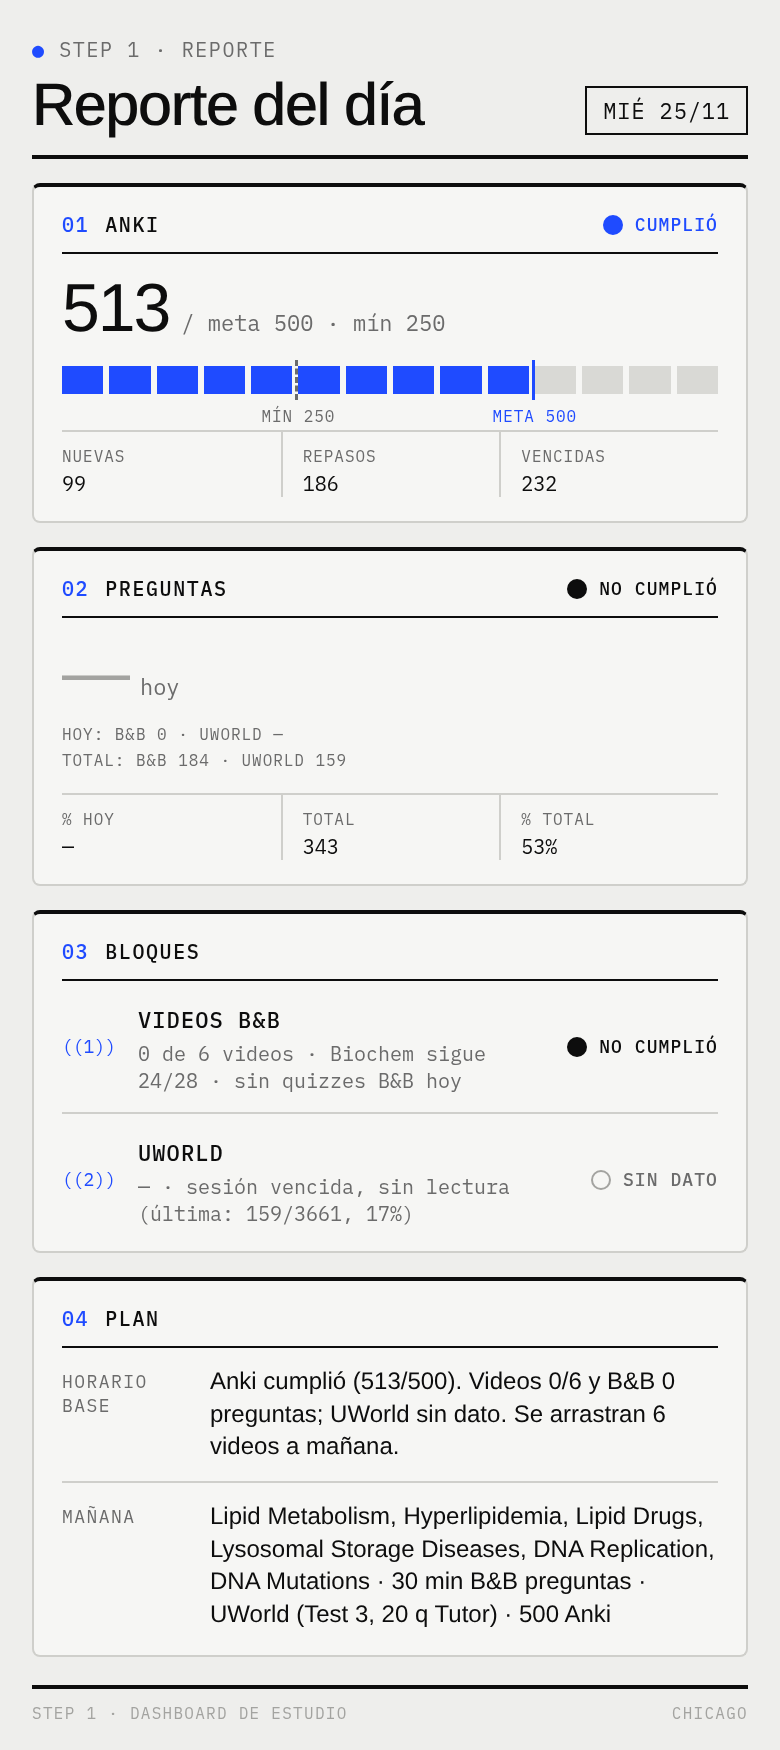
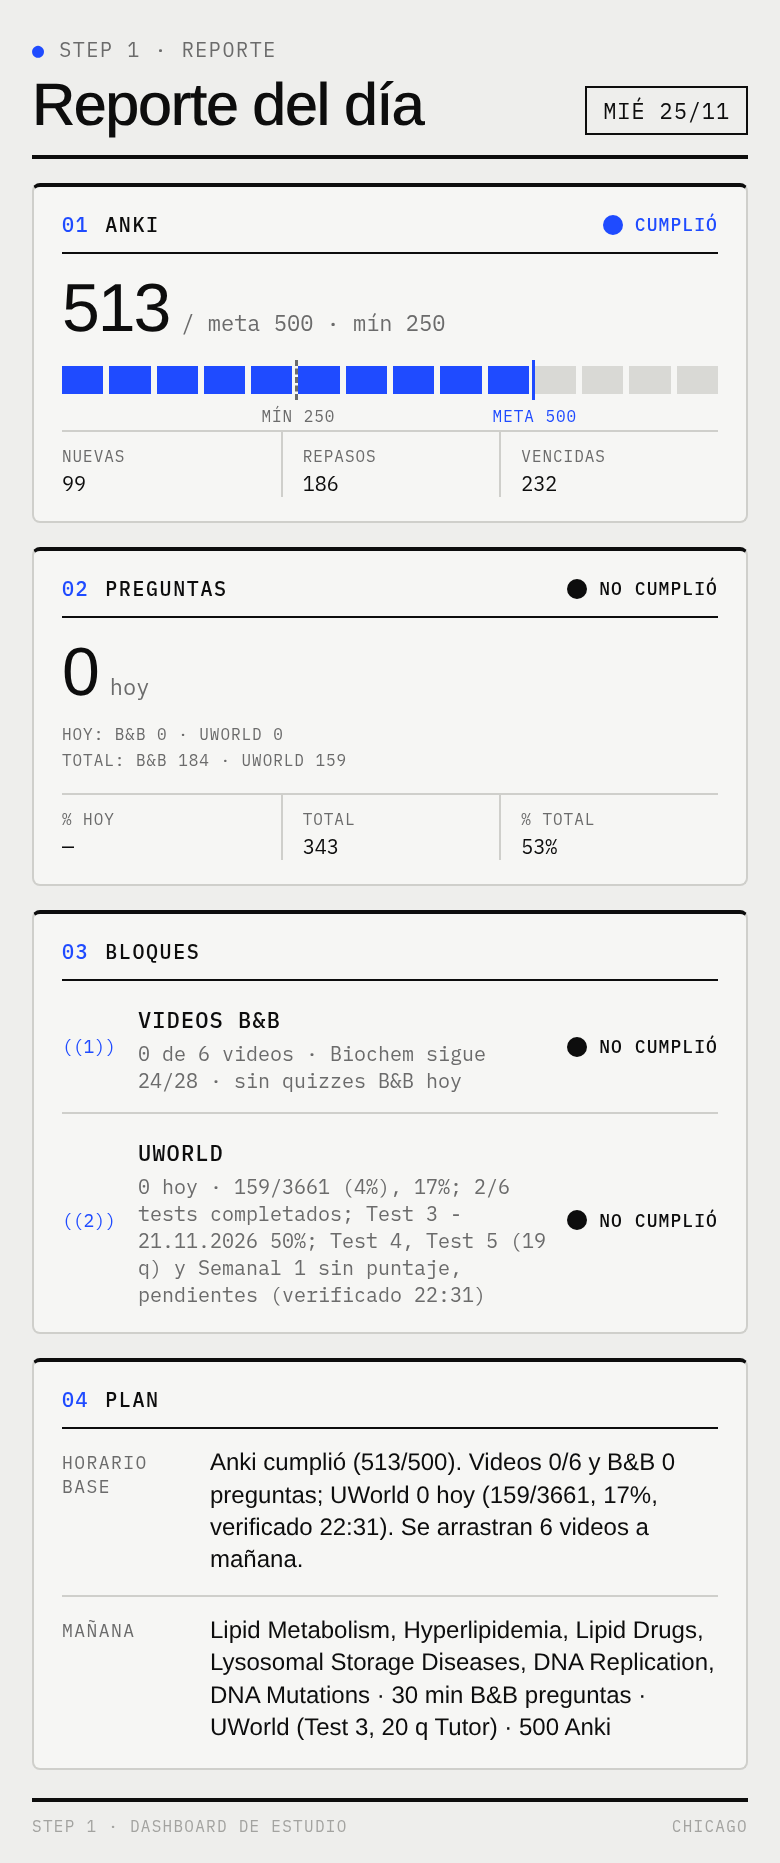
Reporte 2026-11-25: UWorld verificado 0 hoy, 159/3661

diff --git a/index.html b/index.html
@@ -7,7 +7,7 @@
   Regla: en pantalla NO se muestran notas de fuente/procedencia; solo el timestamp de #upd.
   Fuentes (solo para mantenimiento): Anki = Mac "Eduardos MacBook Air" APAGADO/offline a las 25/11 18:00; AnkiConnect no disponible. AnkiWeb (ankiweb.net/decks, sesión ok, solo lectura) 25/11 18:00: vencidas observadas (número verde) AnKing 223 + Eduche Step 1 Deck - BB 155 = 378; nuevas disponibles (número azul, tope diario) AnKing 50, Eduche 9; High Yield 0 vencidas / 0 nuevas, Incorrectas 25 vencidas / 9 nuevas (van dentro de Eduche 155). Submazos Eduche visibles: BB Biochemistry 110/50, BB Farmacología 5/8, BB Genetica 15/50. A las 07:00 del mismo día AnkiWeb mostraba 421 vencidas (AnKing 223, Eduche 198; High Yield 28/25, Incorrectas 40/25). Reviews/AGAIN/tiempo de HOY no se muestran en AnkiWeb (no hay página de stats). ANKI_HOY reviews/again = null (no inventar 0 ni estimar por la baja de vencidas). H["2026-11-24"]=758 (AnkiConnect 24/11 23:28: reviews=758, unique=467, new=0, review_cards=467, introduced=153, rated:1:1=56, again presses=65, 155.87 min, 12.34s/card, is:due=166 AnKing 166 Eduche 0). H["2026-11-25"] omitido (reviews de hoy no observadas).
   B&B = intento 25/11 18:00: login requerido en https://www.boardsbeyond.com/login (sesión vencida; no se escribió ni se usó el vault en esta corrida). Una relectura con login a las ~07:06 del 25/11 confirmó 63 quizzes, ninguno con fecha 25/11, Biochem 24/28 (151/140 a 87%), videos de Lipid Metabolism, Hyperlipidemia, Lipid Drugs, Lysosomal Storage Diseases y DNA Replication/Mutations pendientes, Cell Bio 0/14. Se conservan cifras de la última lectura verificada completa 24/11 23:46: 184/3701, quiz 84.2%, 63 quizzes, Step 1 8%. Biochem 24/28, 151/140 a 87%. Pendientes (última vez vistos ~07:06): Lipid Metabolism, Hyperlipidemia, Lipid Drugs, Lysosomal Storage Diseases. TODAY_Q.bb = null (no se pudo leer Quiz History a las 18:00; no se usa 0 a partir de la lectura de las 07:06). Últimos quizzes observados el 24/11: 17:53 B12 and Folate 5/5; 19:15 Other Vitamins 4/5 (10 q, 90%).
-  UWorld = intento 25/11 18:00: sesión vencida en https://www.uworld.com/account/app/v37/subscriptions ("Your Session has expired. Please login again to continue."); no se escribió ni se usó el vault. Una relectura con login a las ~07:06 del 25/11 confirmó QBank 159/3661, Question Score 17%, Test Count 2/6; ningún test iniciado ni contestado aún el 25/11; Test 3, 4, 5 y Semanal 1 sin iniciar; UWSA 1–3 sin activar. Se conservan cifras de la última lectura 24/11 18:00 (Launch STEP 1 QBank): QBank 159/3661, Question Score 17%, Test Count 2/6. Ronda actual: único completado #2 19/11 10/20 (50%). Sin iniciar: Test 3 (20 q), Test 4 (20 q), Test 5 - 23.11.2026 (19 q) y Test Semanal 1 (40 q). TODAY_Q.uw = null (no se pudo leer Previous Tests a las 18:00; no se usa 0 a partir de la lectura de las 07:06). UWSA 1–3 sin activar.
+  UWorld = lectura verificada 25/11 22:31: QBank 159/3661 (4%), Question Score 17%, 2/6 tests completados. 0 preguntas hoy; ningún test creado, iniciado ni terminado el 25/11. Test 3 - 21.11.2026: 50%. Test 4 - 22.11.2026, Test 5 - 23.11.2026 (19 q) y Test Semanal 1 - 28.11.2026: sin puntaje, pendientes. Test #2 19/11 10/20 (50%) se mantiene de lecturas anteriores. TODAY_Q.uw = 0. UWSA 1–3 sin activar.
   Plan/horario: reprogramado 25/11 22:35 (nada se completó el 25/11; todo corre un día; Infectious Disease termina el 15/12 y Cardiology empieza el 16/12). Antes: reprogramado 24/11 23:46 (títulos de horario_base.xlsx, checklist 2025). Mié 25/11: 4 Biochem restantes + DNA Replication y DNA Mutations (6 videos, 116 min 1.0x). Luego Cell Bio, Path General, Immuno, ID a 6 videos/día L–V; sábados Test Semanal 40; domingos Anki + repaso ligero. Infectious Disease termina el 14/12; Cardiology puede empezar el 15/12. Fuente del horario para la rutina 6:40: /workspace/step1/horario_actual.json (copia /workspace/step1/horario_2026-11-25.xlsx).
 
   · Timestamp ....................... <span id="upd">Actualizado DD/MM HH:MM</span>
@@ -339,7 +339,7 @@ details summary .lbl{margin-left:auto}
   <div><div class="brand"><span><i>●</i> step&nbsp;1</span><span>usmle</span><span>rev. 2026</span></div><h1>Inicio</h1></div>
   <div class="top-meta">
     <button type="button" id="refresh" aria-label="Refresh">↻ REFRESH</button>
-    <span id="upd">Actualizado 25/11 22:35</span>
+    <span id="upd">Actualizado 25/11 22:31</span>
   </div>
 </header>
 
@@ -418,12 +418,12 @@ details summary .lbl{margin-left:auto}
   <div class="big"><div class="k">((1))</div><div class="v">159<small>/3661</small></div><div class="l">QBank usadas</div><div class="d">3502 sin usar</div></div>
   <div class="tb" data-v="159" data-max="3661" style="margin-top:10px"><div class="bar"><i></i></div></div>
   <div class="kvs">
-    <div class="kv"><span>Ronda actual</span><b>1 completado · #2 19/11 · 10/20 (50%)</b></div>
-    <div class="kv"><span>Sin iniciar</span><b>Test 3 (20) · Test 4 (20) · Test 5 - 23.11.2026 (19) · Semanal 1 (40)</b></div>
+    <div class="kv"><span>Ronda actual</span><b>2/6 completados · Test 3 - 21.11.2026 50% · #2 19/11 10/20 (50%)</b></div>
+    <div class="kv"><span>Pendientes</span><b>Test 4 - 22.11.2026 · Test 5 - 23.11.2026 (19) · Semanal 1 - 28.11.2026</b></div>
     <div class="kv"><span>Test 31/10/2026</span><b>abandonado · no cuenta</b></div>
     <div class="kv"><span>UWSA 1–3</span><b>sin activar</b></div>
   </div>
-  <p class="note">Test #2 (19/11, Tutor untimed, Biochemistry, 20 preguntas) es el único completado de la ronda: 50% (10/20). Lectura 24/11 18:00: QBank 159/3661, Question Score 17%. Test 3 - 21.11.2026 (20 q), Test 4 - 22.11.2026 (20 q), Test 5 - 23.11.2026 (19 q) y Test Semanal 1 - 28.11.2026 (40 q) sin puntaje (sin iniciar). El test del 31/10 (40 preguntas, 0%) no cuenta. Las 159/3661 usadas y el 17% de Question Score incluyen el test abandonado y las preguntas reservadas en tests no iniciados (el salto 140→159 es el Test 5, sin contestar). El desempeño de la ronda, solo con #2, sigue en 50%. Los UWSA tienen 14 días de validez al activarlos.</p>
+  <p class="note">Lectura 25/11 22:31: QBank 159/3661 (4%), Question Score 17%, 2/6 tests completados. 0 preguntas hoy; ningún test creado, iniciado ni terminado el 25/11. Test 3 - 21.11.2026: 50%. Test 4 - 22.11.2026, Test 5 - 23.11.2026 (19 q) y Test Semanal 1 - 28.11.2026: sin puntaje, pendientes. Test #2 19/11 10/20 (50%) se mantiene de lecturas anteriores. El test del 31/10 no cuenta. UWSA 1–3 sin activar.</p>
 </section>
 
 <!-- CUENTA REGRESIVA: const D -->
@@ -475,7 +475,7 @@ details summary .lbl{margin-left:auto}
 <section id="s-con" hidden>
 <table><tbody>
 <tr><td><b>Anki (MacBook Air)</b><br><small>Mac apagada 25/11 18:00; AnkiConnect no disponible. AnkiWeb 25/11 18:00 (sesión ok, solo lectura): 378 vencidas (AnKing 223, Eduche 155); nuevas disponibles AnKing 50, Eduche 9. High Yield 0/0, Incorrectas 25/9. Reviews/AGAIN de hoy no visibles en AnkiWeb. Última sesión AnkiConnect 24/11 23:28: 758 revisiones.</small></td><td><span class="pill wa">Mac apagada · AnkiWeb</span></td></tr>
-<tr><td><b>UWorld</b><br><small>Sesión vencida 25/11 18:00 en /account/app/v37/subscriptions. Relectura ~07:06: 159/3661, 17%, sin tests el 25/11 todavía. Última lectura completa 24/11 18:00: 159/3661, 17%; Test 3, Test 4, Test 5 (19 q) y Semanal 1 sin iniciar. #2 10/20 (50%). UWSA sin activar. TODAY_Q.uw = null.</small></td><td><span class="pill wa">Sesión vencida</span></td></tr>
+<tr><td><b>UWorld</b><br><small>Lectura 25/11 22:31: 159/3661 (4%), 17%, 2/6 tests completados. 0 preguntas hoy; ningún test creado, iniciado ni terminado el 25/11. Test 3 - 21.11.2026: 50%. Test 4, Test 5 (19 q) y Semanal 1 sin puntaje, pendientes. #2 19/11 10/20 (50%). UWSA sin activar. TODAY_Q.uw = 0.</small></td><td><span class="pill ok">Conectado</span></td></tr>
 <tr><td><b>Boards &amp; Beyond</b><br><small>Login requerido 25/11 18:00 en /login (sesión vencida). Relectura ~07:06: 63 quizzes, ninguno el 25/11, Biochem 24/28. Última lectura completa 24/11 23:46: 184/3701 a 84.2%, 63 quizzes, Step 1 8%. Biochem 24/28, 151/140 a 87%. Pendientes: Lipid Metabolism, Hyperlipidemia, Lipid Drugs, Lysosomal Storage Diseases. TODAY_Q.bb = null.</small></td><td><span class="pill wa">Sesión vencida</span></td></tr>
 <tr><td><b>Google Sheets (tracker)</b><br><small>Aún no conectado.</small></td><td><span class="pill wa">Sin conexión</span></td></tr>
 </tbody></table>
@@ -637,7 +637,7 @@ const ANKI_HOY={reviews:513, again:52, again_cards:39, again_pct:10};
 const TODAY_Q={
   fecha:"2026-11-25",
   bb:{hechas:0, correctas:0, incorrectas:0, pct:null, quizzes:[]},
-  uw:{hechas:null, correctas:null, incorrectas:null, pct:null}
+  uw:{hechas:0, correctas:null, incorrectas:null, pct:null}
 };
 (function(){
   const el=document.getElementById("today-q"); if(!el) return;
@@ -663,9 +663,9 @@ const TODAY_Q={
 
 /* 08 RENDIMIENTO · datos editables (solo valores ya observados; null = "—") */
 const PERF={
-  uw:{pct:50, usadas:159, total:3661, tests_ronda:1,
-      nota:"Test #2 (19/11, 20 q Biochem Tutor): 50% (10/20). Lectura 24/11 18:00: Test 3 (20 q), Test 4 (20 q), Test 5 - 23.11.2026 (19 q) y Test Semanal 1 (40 q) sin puntaje. El test del 31/10 no cuenta. El 17% de Question Score y las 159/3661 usadas incluyen el abandonado y las preguntas reservadas en tests no iniciados (140→159 al crear el Test 5, sin contestar). Sin lectura el 25/11 (sesión vencida).",
-      sistemas:[], hist:[{t:"#2 19/11", pct:50}]},
+  uw:{pct:50, usadas:159, total:3661, tests_ronda:2,
+      nota:"Lectura 25/11 22:31: QBank 159/3661 (4%), Question Score 17%, 2/6 tests completados. 0 preguntas hoy; ningún test creado, iniciado ni terminado el 25/11. Test 3 - 21.11.2026: 50%. Test 4 - 22.11.2026, Test 5 - 23.11.2026 (19 q) y Test Semanal 1 - 28.11.2026: sin puntaje, pendientes. Test #2 19/11 10/20 (50%) se mantiene de lecturas anteriores. El test del 31/10 no cuenta. UWSA 1–3 sin activar.",
+      sistemas:[], hist:[{t:"#2 19/11", pct:50},{t:"Test 3 21/11", pct:50}]},
   bb:{hechas:184, total:3701, alcance:"Total B&B", pct_quiz:84.2,
       nota:"Lectura 25/11 22:30: 184/3701 a 84.2%, 63 quizzes, Step 1 8%; 0 quizzes el 25/11. Biochem 21/28 → 24/28, 151/140 a 87%. Ningún video completado el 25/11. Siguiente: Lipid Metabolism. Uniques de Quiz History por materia no se releyeron (antes, 23/11 07:07: Pharm 23/40 a 77.5%, Genetics 51/79 a 83.5%).",
       materias:[{n:"Biochemistry", hechas:151, de:140, pct:87},{n:"Basic Pharmacology", hechas:23, de:40, pct:77.5},{n:"Genetics", hechas:51, de:79, pct:83.5}], hist:[]}
@@ -694,13 +694,13 @@ const REPORTS={
   anki:{hechas:513, meta:500, min:250, nuevas:99, repasos:186, vencidas:232, estado:"ok", nota:"AnkiConnect 25/11 22:28: reviews=513, unique=285, introduced=99, again presses=52, again cards=39, 112.7 min"},
   preg:{hoy:null, pct_hoy:null, total:null, pct_total:null,
         bb:{hoy:0, pct_hoy:null, total:184, pct_total:84.2},
-        uw:{hoy:null, pct_hoy:null, total:159, pct_total:17},
+        uw:{hoy:0, pct_hoy:null, total:159, pct_total:17},
         hist:null, estado:"no"},
   bloques:[
     {n:"Videos B&B", valor:"0 de 6 videos", detalle:"Biochem sigue 24/28 · sin quizzes B&B hoy", estado:"no"},
-    {n:"UWorld", valor:null, detalle:"sesión vencida, sin lectura (última: 159/3661, 17%)", estado:"sd"}
+    {n:"UWorld", valor:"0 hoy", detalle:"159/3661 (4%), 17%; 2/6 tests completados; Test 3 - 21.11.2026 50%; Test 4, Test 5 (19 q) y Semanal 1 sin puntaje, pendientes (verificado 22:31)", estado:"no"}
   ],
-  base:"Anki cumplió (513/500). Videos 0/6 y B&B 0 preguntas; UWorld sin dato. Se arrastran 6 videos a mañana.",
+  base:"Anki cumplió (513/500). Videos 0/6 y B&B 0 preguntas; UWorld 0 hoy (159/3661, 17%, verificado 22:31). Se arrastran 6 videos a mañana.",
   manana:"Lipid Metabolism, Hyperlipidemia, Lipid Drugs, Lysosomal Storage Diseases, DNA Replication, DNA Mutations · 30 min B&B preguntas · UWorld (Test 3, 20 q Tutor) · 500 Anki"
 },
   "2026-11-24":{
